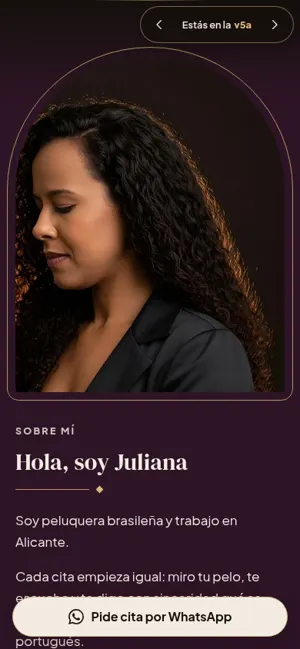
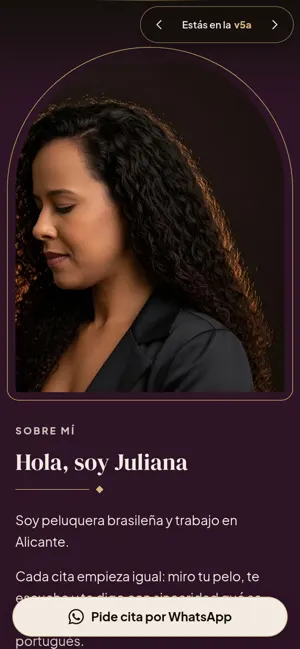
Prévia: /bastidores/ completo (noindex)

diff --git a/bastidores/index.html b/bastidores/index.html
@@ -14,6 +14,7 @@ section{padding:40px 0;border-top:1px solid rgba(243,235,225,.12)}.nota{color:#C
 .igg{list-style:none;margin:0;padding:4px;display:grid;grid-template-columns:repeat(3,1fr);gap:3px;background:#FBF8F4;border-radius:16px}
 .cell{position:relative;aspect-ratio:3/4;overflow:hidden}.cell img{width:100%;height:100%;object-fit:cover;display:block}
 .fix{position:absolute;left:6px;top:6px;padding:3px 8px;border-radius:999px;background:rgba(21,16,13,.75);color:#F3EBE1;font:700 .62rem/1.4 "Plus Jakarta Sans",sans-serif;letter-spacing:.08em;text-transform:uppercase}
+@media(max-width:600px){.fix{font-size:.5rem;padding:2px 5px;left:3px;top:3px;letter-spacing:.04em}}
 .mini{list-style:none;padding:0;margin:18px 0 0;display:grid;grid-template-columns:repeat(auto-fill,minmax(200px,1fr));gap:18px}
 .mini a{display:flex;flex-direction:column;gap:6px;text-decoration:none;color:#F3EBE1;min-height:48px}.mini img{width:100%;height:auto;border-radius:14px;border:1px solid rgba(217,183,126,.35)}.mini b{color:#D9B77E;font-size:1.1rem}.mini span{color:#CBC4BB;font-size:.9rem}
 .dests{list-style:none;padding:0;margin:16px 0 0;display:grid;grid-template-columns:repeat(auto-fill,minmax(90px,1fr));gap:18px 10px}.dests li{display:flex;flex-direction:column;align-items:center;gap:6px;font-size:.8rem}
@@ -25,6 +26,12 @@ nav.ir{display:flex;flex-wrap:wrap;gap:4px 18px}nav.ir a{min-height:48px;display
 <p>Aqui fica tudo o que já está pronto, num lugar só. As páginas estão fora do Google (noindex). Atualizado em 24/11/2026.</p>
 <nav class="ir" aria-label="Atalhos"><a href="../versoes/">Versões</a><a href="../design-system/">Design System</a><a href="../PROGRESSO.html">Progresso</a><a href="#grade">Grade do Instagram</a></nav>
 
+<section id="versoes"><h2>Versões do site</h2><p class="nota">Cada uma congelada na sua pasta, com a etiqueta «Estás en la vX» e as setas para a anterior e a próxima. O que mudou em cada uma: <a href="../versoes/">/versoes/</a>.</p><ul class="mini"><li><a href="../v4/"><img src="img/v4.webp" width="300" height="649" alt="Print da v4 no celular" loading="lazy"><b>v4</b><span>v4c congelada, igual à de 22/11</span></a></li><li><a href="../v5a/"><img src="img/v5a.webp" width="300" height="649" alt="Print da v5a no celular" loading="lazy"><b>v5a</b><span>divisória suave entre seções</span></a></li><li><a href="../v5b/"><img src="img/v5b.webp" width="300" height="649" alt="Print da v5b no celular" loading="lazy"><b>v5b</b><span>sem divisória, a cor muda aos poucos</span></a></li></ul></section>
+<section id="ds"><h2>Design System V0</h2><p>Reúne tokens, o roxo refeito com o contraste medido, tipografia, componentes, o antes/depois acessível e o CTA de WhatsApp. <a href="../design-system/">Abrir o Design System</a></p></section>
+<section id="destaques"><h2>Capas de destaque do Instagram</h2><p class="nota">Nove ícones; as capas 1080×1920 estão no painel.</p><ul class="dests"><li><span class="dest"><svg viewBox="0 0 24 24" fill="none" stroke="#D9B77E" stroke-width="1.5" stroke-linecap="round" stroke-linejoin="round" aria-hidden="true"><circle cx="6.5" cy="7" r="2.6"/><circle cx="6.5" cy="17" r="2.6"/><path d="M8.6 8.6L20 17.5M8.6 15.4L20 6.5"/></svg></span><span>Cortes</span></li><li><span class="dest"><svg viewBox="0 0 24 24" fill="none" stroke="#D9B77E" stroke-width="1.5" stroke-linecap="round" stroke-linejoin="round" aria-hidden="true"><path d="M12 3.2c3.4 4.3 5.9 7.4 5.9 10.4a5.9 5.9 0 0 1-11.8 0c0-3 2.5-6.1 5.9-10.4z"/><path d="M9.2 14.2a2.9 2.9 0 0 0 2.4 2.6"/></svg></span><span>Color</span></li><li><span class="dest"><svg viewBox="0 0 24 24" fill="none" stroke="#D9B77E" stroke-width="1.5" stroke-linecap="round" stroke-linejoin="round" aria-hidden="true"><path d="M7 3c-1.6 5 1.6 10 0 18"/><path d="M12 3c-1.6 5 1.6 10 0 18" stroke-width="2.4"/><path d="M17 3c-1.6 5 1.6 10 0 18"/></svg></span><span>Mechas</span></li><li><span class="dest"><svg viewBox="0 0 24 24" fill="none" stroke="#D9B77E" stroke-width="1.5" stroke-linecap="round" stroke-linejoin="round" aria-hidden="true"><path d="M8 3v18M12 3v18M16 3v18"/><rect x="5" y="9.5" width="14" height="4" rx="2"/></svg></span><span>Alisado</span></li><li><span class="dest"><svg viewBox="0 0 24 24" fill="none" stroke="#D9B77E" stroke-width="1.5" stroke-linecap="round" stroke-linejoin="round" aria-hidden="true"><path d="M9 3c-2.6 0-2.6 3.4 0 3.4s2.6 3.4 0 3.4-2.6 3.4 0 3.4 2.6 3.4 0 3.4-2.6 3.4 0 3.4"/><path d="M15 3c2.6 0 2.6 3.4 0 3.4s-2.6 3.4 0 3.4 2.6 3.4 0 3.4-2.6 3.4 0 3.4 2.6 3.4 0 3.4"/></svg></span><span>Rizos</span></li><li><span class="dest"><svg viewBox="0 0 24 24" fill="none" stroke="#D9B77E" stroke-width="1.5" stroke-linecap="round" stroke-linejoin="round" aria-hidden="true"><circle cx="12" cy="12" r="8.2"/><path d="M12 3.8v16.4"/><path d="M8.6 10l-2 2 2 2M15.4 10l2 2-2 2"/></svg></span><span>Antes y después</span></li><li><span class="dest"><svg viewBox="0 0 24 24" fill="none" stroke="#D9B77E" stroke-width="1.5" stroke-linecap="round" stroke-linejoin="round" aria-hidden="true"><path d="M14.6 4.5v9.6a4.1 4.1 0 0 1-8.2.3"/><path d="M12 4.5h5.2"/></svg></span><span>Sobre mí</span></li><li><span class="dest"><svg viewBox="0 0 24 24" fill="none" stroke="#D9B77E" stroke-width="1.5" stroke-linecap="round" stroke-linejoin="round" aria-hidden="true"><path d="M12 21s-6.2-5.4-6.2-10.3a6.2 6.2 0 0 1 12.4 0C18.2 15.6 12 21 12 21z"/><circle cx="12" cy="10.6" r="2.2"/></svg></span><span>Dónde</span></li><li><span class="dest"><svg viewBox="0 0 24 24" fill="none" stroke="#D9B77E" stroke-width="1.5" stroke-linecap="round" stroke-linejoin="round" aria-hidden="true"><path d="M4.2 19.8l1.3-3.7a7.6 7.6 0 1 1 2.8 2.6z"/><path d="M9 11.2h6M9 14h3.6"/></svg></span><span>Citas</span></li></ul></section>
+<section id="antes"><h2>Prévias anteriores (continuam no ar)</h2><ul class="lista"><li><a href="../secoes/">/secoes/</a>: v4c original (22/11)</li><li><a href="../filme/">/filme/</a>: a versão filme</li><li><a href="../">raiz</a>: a primeira prévia</li></ul></section>
+<section id="fotos"><h2>Fotos</h2><p>Por enquanto o site usa só as fotos que já existiam. O hero e a foto de costas do final são o padrão. Uma foto nova só entra se chegar a esse nível. Resultado da triagem: veja o <a href="../PROGRESSO.html">progresso</a>, passo 3.</p></section>
+<section id="pendente"><h2>Ainda falta confirmar</h2><ul class="lista"><li>O número de WhatsApp definitivo. O de agora é provisório e fica em uma linha só, <code>WA=</code>. [confirmar]</li><li>A autorização das clientes que aparecem nos posts e nos antes/depois. [confirmar]</li><li>O domínio final; hoje está <code>[dominio]</code>. [confirmar]</li><li>Tudo aqui está fora do Google (noindex) e não foi mandado para ninguém.</li></ul></section>
 <section id="grade"><h2>Grade 3×4 do Instagram (proposta)</h2><p class="nota">São os posts que já estão prontos, mostrados a 90% da largura. A primeira linha tem os 3 fixados. Os posts do curso ficaram fora desta página pública.</p>
 <div class="igwrap"><ul class="igg"><li class="cell"><img src="img/post-01.webp" width="540" height="675" alt="Post 1 da grade proposta" loading="lazy" decoding="async"><span class=fix>Fijado: presentación</span></li><li class="cell"><img src="img/post-02.webp" width="540" height="675" alt="Post 2 da grade proposta" loading="lazy" decoding="async"><span class=fix>Fijado: servicios</span></li><li class="cell"><img src="img/post-03.webp" width="540" height="675" alt="Post 3 da grade proposta" loading="lazy" decoding="async"><span class=fix>Fijado: pedir cita</span></li><li class="cell"><img src="img/post-04.webp" width="540" height="675" alt="Post 4 da grade proposta" loading="lazy" decoding="async"></li><li class="cell"><img src="img/post-05.webp" width="540" height="675" alt="Post 5 da grade proposta" loading="lazy" decoding="async"></li><li class="cell"><img src="img/post-06.webp" width="540" height="675" alt="Post 6 da grade proposta" loading="lazy" decoding="async"></li><li class="cell"><img src="img/post-07.webp" width="540" height="675" alt="Post 7 da grade proposta" loading="lazy" decoding="async"></li><li class="cell"><img src="img/post-08.webp" width="540" height="675" alt="Post 8 da grade proposta" loading="lazy" decoding="async"></li><li class="cell"><img src="img/post-09.webp" width="540" height="675" alt="Post 9 da grade proposta" loading="lazy" decoding="async"></li><li class="cell"><img src="img/post-10.webp" width="540" height="675" alt="Post 10 da grade proposta" loading="lazy" decoding="async"></li><li class="cell"><img src="img/post-11.webp" width="540" height="675" alt="Post 11 da grade proposta" loading="lazy" decoding="async"></li><li class="cell"><img src="img/post-12.webp" width="540" height="675" alt="Post 12 da grade proposta" loading="lazy" decoding="async"></li></ul></div></section>
 </main></body></html>

diff --git a/PROGRESSO.html b/PROGRESSO.html
@@ -1,3 +1,3 @@
 <!doctype html><html lang="pt-BR"><head><meta charset="utf-8"><meta name="viewport" content="width=device-width,initial-scale=1"><meta name="robots" content="noindex, nofollow"><title>Progresso · v5 Juliana</title>
 <style>body{margin:0;background:#15100D;color:#F3EBE1;font:16px/1.5 system-ui,sans-serif}main{max-width:760px;margin:0 auto;padding:32px 20px 64px}h1{font-family:Georgia,serif;font-weight:400;margin:0 0 4px}.sub{color:#CBC4BB;margin:0 0 24px}ul{list-style:none;padding:0;margin:0;display:grid;gap:12px}li{display:grid;grid-template-columns:110px 1fr;gap:14px;padding:14px 16px;border:1px solid rgba(243,235,225,.14);border-radius:14px}.st{align-self:start;text-align:center;font-size:.8rem;font-weight:700;padding:6px 8px;border-radius:99px;color:#15100D;background:var(--c)}p{margin:4px 0;color:#CBC4BB}small{color:#958898}a{color:#D9B77E;display:inline-block;min-height:48px;line-height:48px}</style></head>
-<body><main><h1>Progresso da v5</h1><p class="sub">Página de trabalho (noindex). Atualizada a cada passo. <a href="versoes/">Versões</a> · <a href="v5a/">v5a</a> · <a href="v5b/">v5b</a> · <a href="design-system/">Design system</a> · <a href="bastidores/">Bastidores</a></p><ul><li><span class="st" style="--c:#7FBF8E">feito</span><div><b>0. Base v4c (7562db6) e referências</b><p>Base puxada do juliana-previa. As 5 referências foram usadas só como princípio: 4 abertas sem login e a BURNT MOTION (p/DfYtmOvHzlU) lida pelo print que o Diogo mandou. Princípios em REFERENCIAS-V5.md.</p><small>24/11 22:20 (Madrid)</small></div></li><li><span class="st" style="--c:#7FBF8E">feito</span><div><b>1. Design System V0</b><p>Página /design-system/ com tokens, o roxo refeito (#2E1426, contraste medido em 101 passos), tipografia, 9 ícones de destaque (capas 1080×1920 no painel), componentes, antes/depois acessível (teclado e toque) e CTA de WhatsApp tirado de uma linha só, WA= em comum.py (número provisório).</p><small>24/11 22:22 (Madrid)</small></div></li><li><span class="st" style="--c:#7FBF8E">feito</span><div><b>2. v5a e v5b (roxo refeito, AA medido)</b><p>v5a tem divisória suave: mistura em OKLab e um fio dourado curto. v5b não tem divisória: o fundo da página muda de cor aos poucos (OKLab, ±35% da tela). Roxo #2E1426 no lugar de #2A1030, e o rodapé perdeu a faixa roxa. Pior contraste medido na transição: texto 14.29:1, texto 2 9.77:1, link dourado 8.86:1 (AA o tempo todo).</p><small>24/11 22:26 (Madrid)</small></div></li><li><span class="st" style="--c:#8F8696">a fazer</span><div><b>3. Fotos (Antigravity em fotos-agy)</b><p></p><small>24/11 22:14 (Madrid)</small></div></li><li><span class="st" style="--c:#7FBF8E">feito</span><div><b>4. Grade 3×4 do Instagram a 90%</b><p>A grade 3×4 (12 posts prontos, os 3 fixados em cima) agora ocupa 90% da largura, em /bastidores/#grade. No painel (marca/posts.html) passou de ~50% para 90%. Os posts do curso ficaram fora da página pública.</p><small>24/11 22:28 (Madrid)</small></div></li><li><span class="st" style="--c:#8F8696">a fazer</span><div><b>5. Bastidores</b><p></p><small>24/11 22:14 (Madrid)</small></div></li><li><span class="st" style="--c:#7FBF8E">feito</span><div><b>6. Versões congeladas e etiqueta</b><p>/v4/ (cópia da v4c), /v5a/ e /v5b/ estão congeladas. Cada uma tem a etiqueta fixa «Estás en la vX» com setas de 48px (no topo à direita no celular, embaixo à esquerda no computador). /versoes/ lista as três com data e o que mudou.</p><small>24/11 22:28 (Madrid)</small></div></li><li><span class="st" style="--c:#7FBF8E">feito</span><div><b>7. Validação (prints, Lighthouse, CLS)</b><p>Prints em 390/768/1440. Lighthouse local, v5a: celular 99/100/100, computador 100/100/100. v5b: celular 99/100/100, computador 100/100/100 (desempenho/acessibilidade/boas práticas). LCP 2.0 s no celular e 0.5 s no computador, CLS 0, sem rolagem lateral. Ajustei o toque de 48px no «Pide cita» do topo e no «Ver el curso». O SEO dá 66 por causa do noindex, como pedido.</p><small>24/11 22:32 (Madrid)</small></div></li></ul></main></body></html>
+<body><main><h1>Progresso da v5</h1><p class="sub">Página de trabalho (noindex). Atualizada a cada passo. <a href="versoes/">Versões</a> · <a href="v5a/">v5a</a> · <a href="v5b/">v5b</a> · <a href="design-system/">Design system</a> · <a href="bastidores/">Bastidores</a></p><ul><li><span class="st" style="--c:#7FBF8E">feito</span><div><b>0. Base v4c (7562db6) e referências</b><p>Base puxada do juliana-previa. As 5 referências foram usadas só como princípio: 4 abertas sem login e a BURNT MOTION (p/DfYtmOvHzlU) lida pelo print que o Diogo mandou. Princípios em REFERENCIAS-V5.md.</p><small>24/11 22:20 (Madrid)</small></div></li><li><span class="st" style="--c:#7FBF8E">feito</span><div><b>1. Design System V0</b><p>Página /design-system/ com tokens, o roxo refeito (#2E1426, contraste medido em 101 passos), tipografia, 9 ícones de destaque (capas 1080×1920 no painel), componentes, antes/depois acessível (teclado e toque) e CTA de WhatsApp tirado de uma linha só, WA= em comum.py (número provisório).</p><small>24/11 22:22 (Madrid)</small></div></li><li><span class="st" style="--c:#7FBF8E">feito</span><div><b>2. v5a e v5b (roxo refeito, AA medido)</b><p>v5a tem divisória suave: mistura em OKLab e um fio dourado curto. v5b não tem divisória: o fundo da página muda de cor aos poucos (OKLab, ±35% da tela). Roxo #2E1426 no lugar de #2A1030, e o rodapé perdeu a faixa roxa. Pior contraste medido na transição: texto 14.29:1, texto 2 9.77:1, link dourado 8.86:1 (AA o tempo todo).</p><small>24/11 22:26 (Madrid)</small></div></li><li><span class="st" style="--c:#8F8696">a fazer</span><div><b>3. Fotos (Antigravity em fotos-agy)</b><p></p><small>24/11 22:14 (Madrid)</small></div></li><li><span class="st" style="--c:#7FBF8E">feito</span><div><b>4. Grade 3×4 do Instagram a 90%</b><p>A grade 3×4 (12 posts prontos, os 3 fixados em cima) agora ocupa 90% da largura, em /bastidores/#grade. No painel (marca/posts.html) passou de ~50% para 90%. Os posts do curso ficaram fora da página pública.</p><small>24/11 22:28 (Madrid)</small></div></li><li><span class="st" style="--c:#7FBF8E">feito</span><div><b>5. Bastidores</b><p>/bastidores/ junta tudo o que está pronto: as 3 versões com print, o Design System, as capas de destaque, a grade 3×4 a 90%, as prévias anteriores, a triagem de fotos e o que falta confirmar.</p><small>24/11 22:32 (Madrid)</small></div></li><li><span class="st" style="--c:#7FBF8E">feito</span><div><b>6. Versões congeladas e etiqueta</b><p>/v4/ (cópia da v4c), /v5a/ e /v5b/ estão congeladas. Cada uma tem a etiqueta fixa «Estás en la vX» com setas de 48px (no topo à direita no celular, embaixo à esquerda no computador). /versoes/ lista as três com data e o que mudou.</p><small>24/11 22:28 (Madrid)</small></div></li><li><span class="st" style="--c:#7FBF8E">feito</span><div><b>7. Validação (prints, Lighthouse, CLS)</b><p>Prints em 390/768/1440. Lighthouse local, v5a: celular 99/100/100, computador 100/100/100. v5b: celular 99/100/100, computador 100/100/100 (desempenho/acessibilidade/boas práticas). LCP 2.0 s no celular e 0.5 s no computador, CLS 0, sem rolagem lateral. Ajustei o toque de 48px no «Pide cita» do topo e no «Ver el curso». O SEO dá 66 por causa do noindex, como pedido.</p><small>24/11 22:32 (Madrid)</small></div></li></ul></main></body></html>
